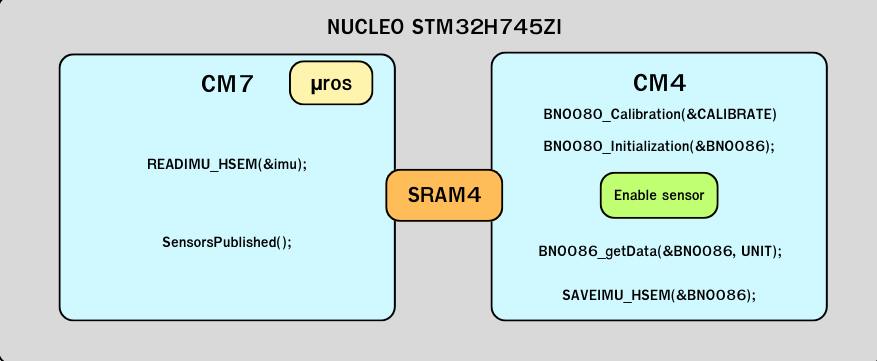
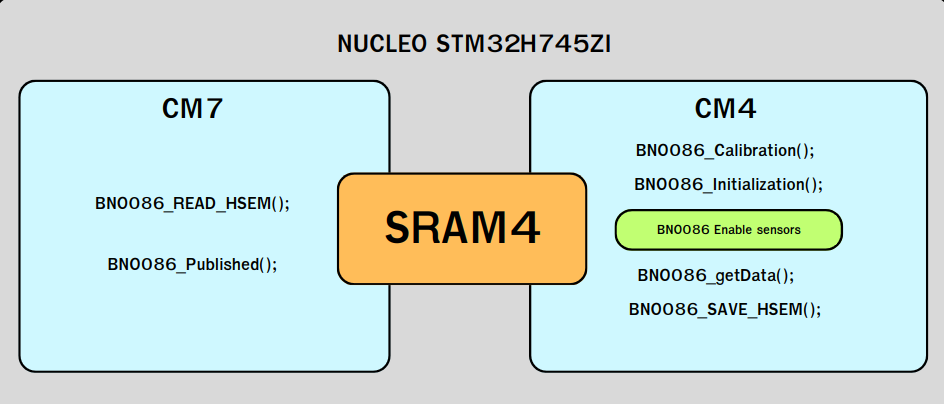
Update README

diff --git a/README.md b/README.md
@@ -2,6 +2,11 @@
 
 # Introduction
 
+This setup for BNO086 (via SPI) with the STM32H745ZI-Q. Data from this IMU is sent from the CM4 core to the CM7 core, where CM7 publishes it using micro-ROS (UROS).
+
+#### Reference 
+- BNO086: **[Product and Documents](https://www.sparkfun.com/products/22857)**
+
 ![system diagram](image/system_diagram.png)
 
 # Installation
@@ -48,6 +53,8 @@ Click in **BNO086_H745_UROS_UART_CM7 Debug** and go to Startup, click Add.. -> P
 
 
 # Usage
+
+## CM4
 
 1.Start **micro_ros_agent** to debug the system at CM7 every time.
 
@@ -99,23 +106,25 @@ ros2 run micro_ros_agent micro_ros_agent serial --dev ttyACM0 -b 2000000
 ![loop_control](image/loop_control.png)
 This is function for control frequancy to get data from sensors, It have 1000 Hz as default.
 
-6. Switch to **main.c** in ***BNO086_H745_UROS_UART_CM4 (in CM7)***. Declare the **BNO086_t IMU_086** which is the object used to receive the data from CM4.
+## CM7
+
+1. Switch to **main.c** in ***BNO086_H745_UROS_UART_CM4 (in CM7)***. Declare the **BNO086_t IMU_086** which is the object used to receive the data from CM4.
 
     ![pvvar](image/pvvar.png)
 
-7. At **void timer_callback** where is a control loop in UROS, 
+2. At **void timer_callback** where is a control loop in UROS, 
     - **BNO086_READ_HSEM(&IMU_086)** : Read the data from CM4 and store in the **IMU_086** object.
     - **BNO086_Published()**: Extract the data and publish in ROS2 (Optional)
 
     ![086_read_hsem](image/BNO086READHSEM.png)
 
-8. This is an example of initialize the publishers to publish the data (Using best_effort)
+3. This is an example of initialize the publishers to publish the data (Using best_effort)
 ![initpub](image/innitpub.png)
 
-9. Create function for extract and publish the data. (You also can create a custom message interface to handle the additional data e.g. **Accerelation** and **Euler Angle**)
+4. Create function for extract and publish the data. (You also can create a custom message interface to handle the additional data e.g. **Accerelation** and **Euler Angle**)
  ![datapub](image/datapub.png)
 
-10. When you already debugged, you can add these below in **Live Expression**
+5. When you already debugged, you can add these below in **Live Expression**
    - **BNO086** for see data from sensor
    - **imu** for check CM7 that can read data from CM4 it will has same data as BNO086
    - **CALIBRATE**  for see status sensors when you enter calibration mode
@@ -131,7 +140,7 @@ This is function for control frequancy to get data from sensors, It have 1000 Hz
 ![datapub](image/LiveExp2.png)
 
 
-11. Inspect the data publisher by checking topic in terminal.
+6. Inspect the data publisher by checking topic in terminal.
 ```bash
 ros2 node list
 ```
